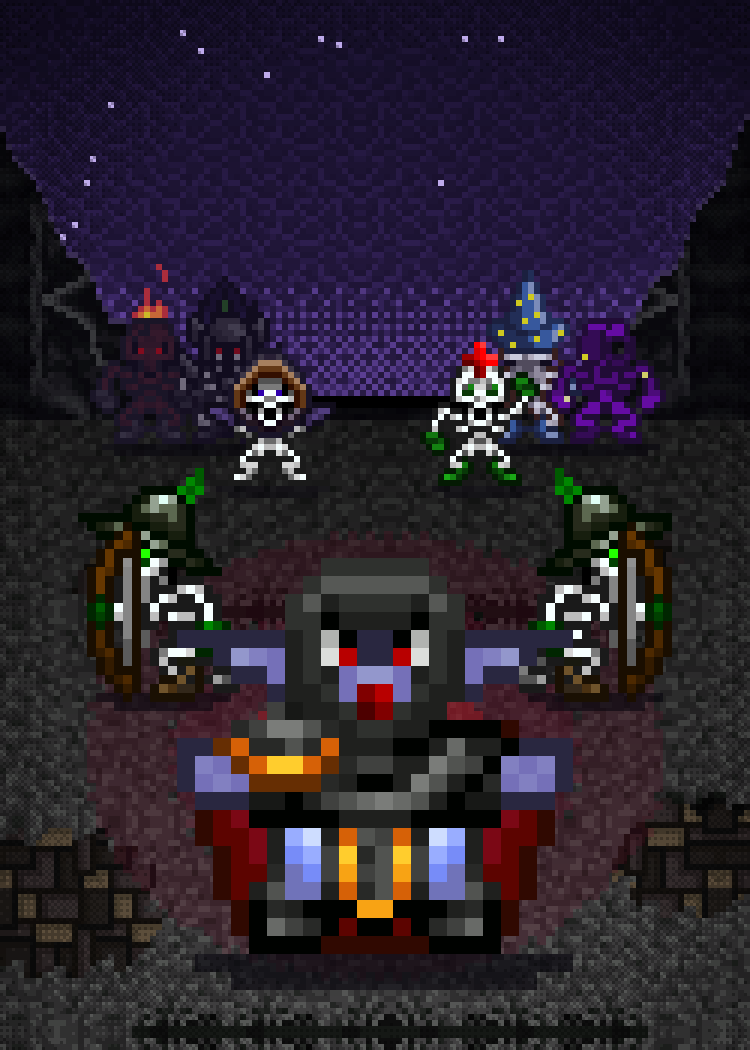
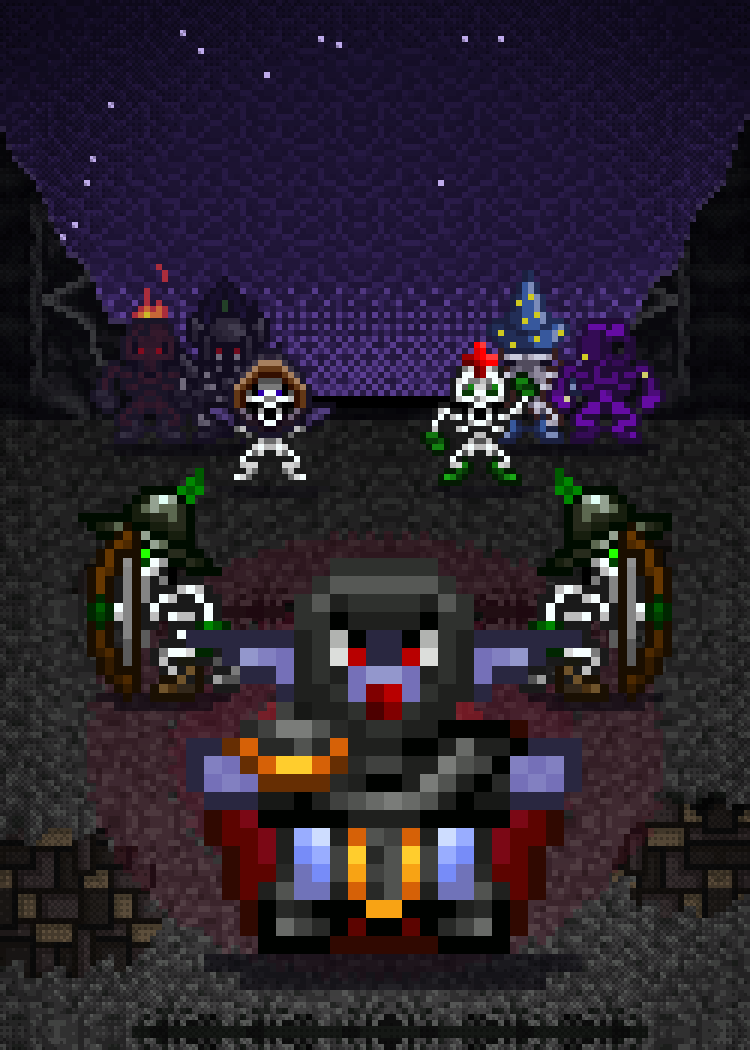
Runde 6: zweite Überarbeitung (Zwischenstand)
Claude-Session: https://claude.ai/code/session_01TEnvTzH2xD44R6Unjv7vDo

diff --git a/data/sleeve-proposals/runde6/generator/s07_bone_tide.py b/data/sleeve-proposals/runde6/generator/s07_bone_tide.py
@@ -221,7 +221,7 @@ cv = Canvas(250, 350)
 cv.paste(up(bg, 2), 0, 0)
 cv.paste(up(glow, 3), -1, 0)
 cv.paste(up(mid, 3), -1, 0)
-cv.paste(up(fg, 6), -1, 0)
+cv.paste(up(fg, 6), 2, 0)                         # Gesichtsmitte (Sprite-Spalte 10,5) auf x = 125 → 375 von 750
 vignette(cv, 0.35, 0.62)
 save(cv, '07_bone_tide.png')
 print('ok')
